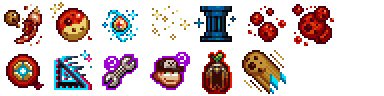
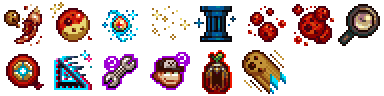
withering heights

Changed region(s): [[0.875, 0.0312, 1.0, 0.5]]

diff --git a/main.js b/main.js
@@ -54,7 +54,7 @@ new Game.AddAchievement("Heavenly empire", "Obtain <b>1000000000</b> total heave
 new Game.AddAchievement("Heavenly legacy", "Obtain <b>1000000000000</b> total heavenly chips.<q>Magnifique.</q>", [28, 12]);
 
 new Game.AddAchievement("Wrath cookie", "Click a <b>wrath cookie</b>.", [15, 5]);
-new Game.AddAchievement("", "Click <b>6 wrath cookies</b>.", [0, 5, icons]);
+new Game.AddAchievement("Dodgy cookie", "Click <b>6 wrath cookies</b>.", [0, 5, icons]);
 new Game.AddAchievement("Withering heights", "Click <b>66 wrath cookies</b>.", [0, 6, icons]);
 new Game.AddAchievement("Hattrick", "Have <b>3</b> buffs active simultaneously.", [22, 6]);
 new Game.AddAchievement("Dichotomy", "Have both a golden cookie, and wrath cookie present on screen <b>simultaneously</b>.<q>Perfectly balanced, as all things should be.</q>", [1, 0, icons]);
@@ -63,6 +63,8 @@ new Game.AddAchievement("Crumbling fortune", "Miss <b>77</b> golden cookies.", [
 new Game.AddAchievement("Master of the elements", "Experience every season in one ascension.", [16, 6]);
 
 new Game.AddAchievement('Earl of creation', 'Own <b>1000</b> of any building.', [4, 0, icons]);
+
+new Game.AddAchievement("Finder's keepers", "Fill in <b>half</b> of the seed log.", [0, 7, icons]);
 
 
 new Game.AddAchievement('Ironman mode', 'Get to <b>1000000000000000</b> cookies baked with <b>no upgrades purchased</b>.<q>Was it worth it?</q>', [0, 1, icons]); Game.last.pool = "shadow";
@@ -83,6 +85,9 @@ Game.Achievements["Heavenly bakery"].order = 32000.81;
 Game.Achievements["Heavenly empire"].order = 32000.82;
 Game.Achievements["Heavenly legacy"].order = 32000.83;
 
+Game.Achievements["Wrath cookie"].order = 10000.090;
+Game.Achievements["Dodgy cookie"].order = 10000.091;
+Game.Achievements["Withering heights"].order = 10000.092;
 Game.Achievements["Hattrick"].order = 10000.270;
 Game.Achievements["Dichotomy"].order = 10000.271;
 Game.Achievements["Crumbling fortune"].order = 10000.271;
@@ -90,6 +95,8 @@ Game.Achievements["Crumbling fortune"].order = 10000.271;
 Game.Achievements["Master of the elements"].order = 22400.170;
 
 Game.Achievements["Earl of creation"].order = 5000.128;
+
+Game.Achievements["Finder's keepers"].order = 61515.380;
 
 
 Game.Achievements['Ironman mode'].order = 30200.08;
@@ -133,6 +140,10 @@ Game.customChecks = [
 		if (Game.prestige >= bill) Game.Win("Heavenly empire");
 		if (Game.prestige >= tril) Game.Win("Heavenly legacy");
 
+
+		if (Game.wrathClicks >= 1) Game.Win("Wrath cookie");
+		if (Game.wrathClicks >= 6) Game.Win("Dodgy cookie");
+		if (Game.wrathClicks >= 66) Game.Win("Withering heights");
 		if (Object.size(Game.buffs) >= 3) Game.Win("Hattrick");
 
 		var w = 0;
@@ -148,11 +159,13 @@ Game.customChecks = [
 
 		if (Game.maximumBuildingAmount >= 1000) Game.Win("Earl of creation");
 
+		if (Game.Objects.Farm.minigame.plantsUnlockedN >= Game.Objects.Farm.minigame.plantsN / 2) Game.Win("Finder's keepers");
+
 
 		if ((Game.ascensionMode==1 || Game.resets==0) && Game.cookiesEarned >= quad && Game.UpgradesOwned == 0) Game.Win("Ironman Mode");
 		if (Game.bakeryName.toLowerCase() == "xalum") Game.Win("Modded god complex");
 		if (Game.bakeryName.toLowerCase() == "opti") Game.Win("Opti complex");
-		if (Game.Objects["Farm"].minigame.convertTimes >= 3) Game.Win("Tragedy comes in trees");
+		if (Game.Objects.Farm.minigame.convertTimes >= 3) Game.Win("Tragedy comes in trees");
 		if (Game.unbuffedCps >= tril && Game.cookiesEarned >= 60*60*24*30*Game.unbuffedCps) Game.Win("Excellent bakery");
 		if (Game.minimumBuildingAmount >= thou) Game.Win("Decacentennial")
 	},
@@ -189,6 +202,15 @@ Game.Reset = function(hard) {
 		fools: false,
 	}
 	Game.BackupReset(hard)
+}
+
+Game.BackupPopFunc = Game.shimmerTypes.golden.popFunc
+Game.shimmerTypes.golden.popFunc = function(this) {
+	if (me.wrath == 1) {
+		Game.wrathClicks ++;
+		XalumSave.wrathClicks ++;
+	}
+	Game.BackupPopFunc(this);
 }
 
 Game.CalculateGains=function() {
@@ -884,7 +906,10 @@ XalumLoadConfig = function() {
 	    		fools: false,
 	    	}
         }
-        Game.experiencedSeasons = XalumSave.experiencedSeasons
+        if (!XalumSave.wrathClicks) XalumSave.wrathClicks = 0;
+
+        Game.experiencedSeasons = XalumSave.experiencedSeasons;
+        Game.wrathClicks = XalumSave.wrathClicks;
     }
     else {
         XalumSaveDefault();
